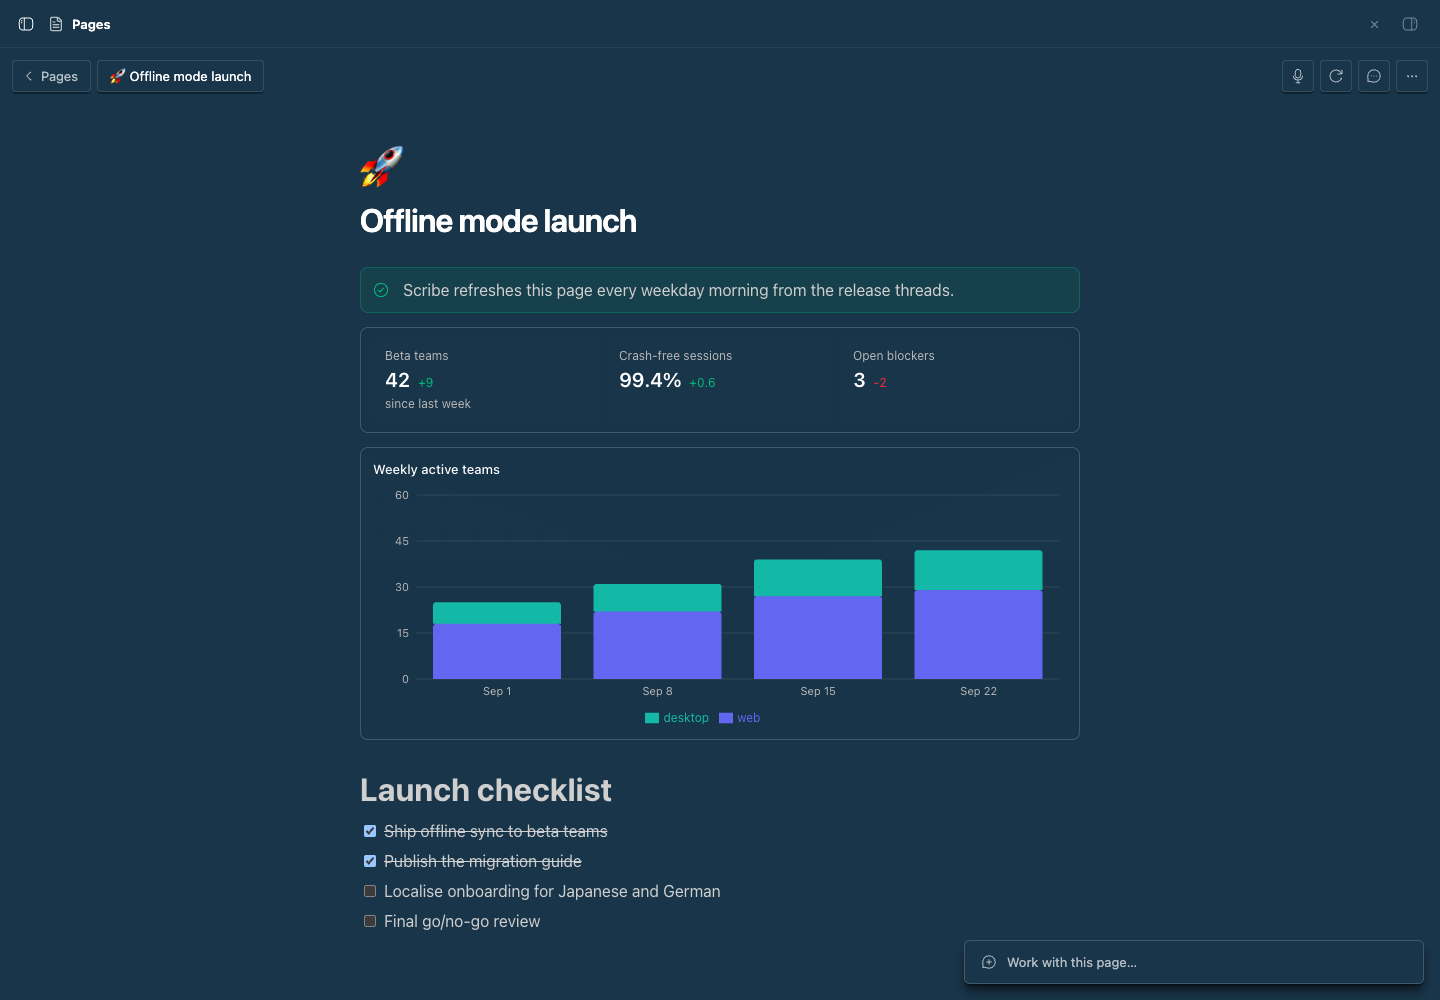
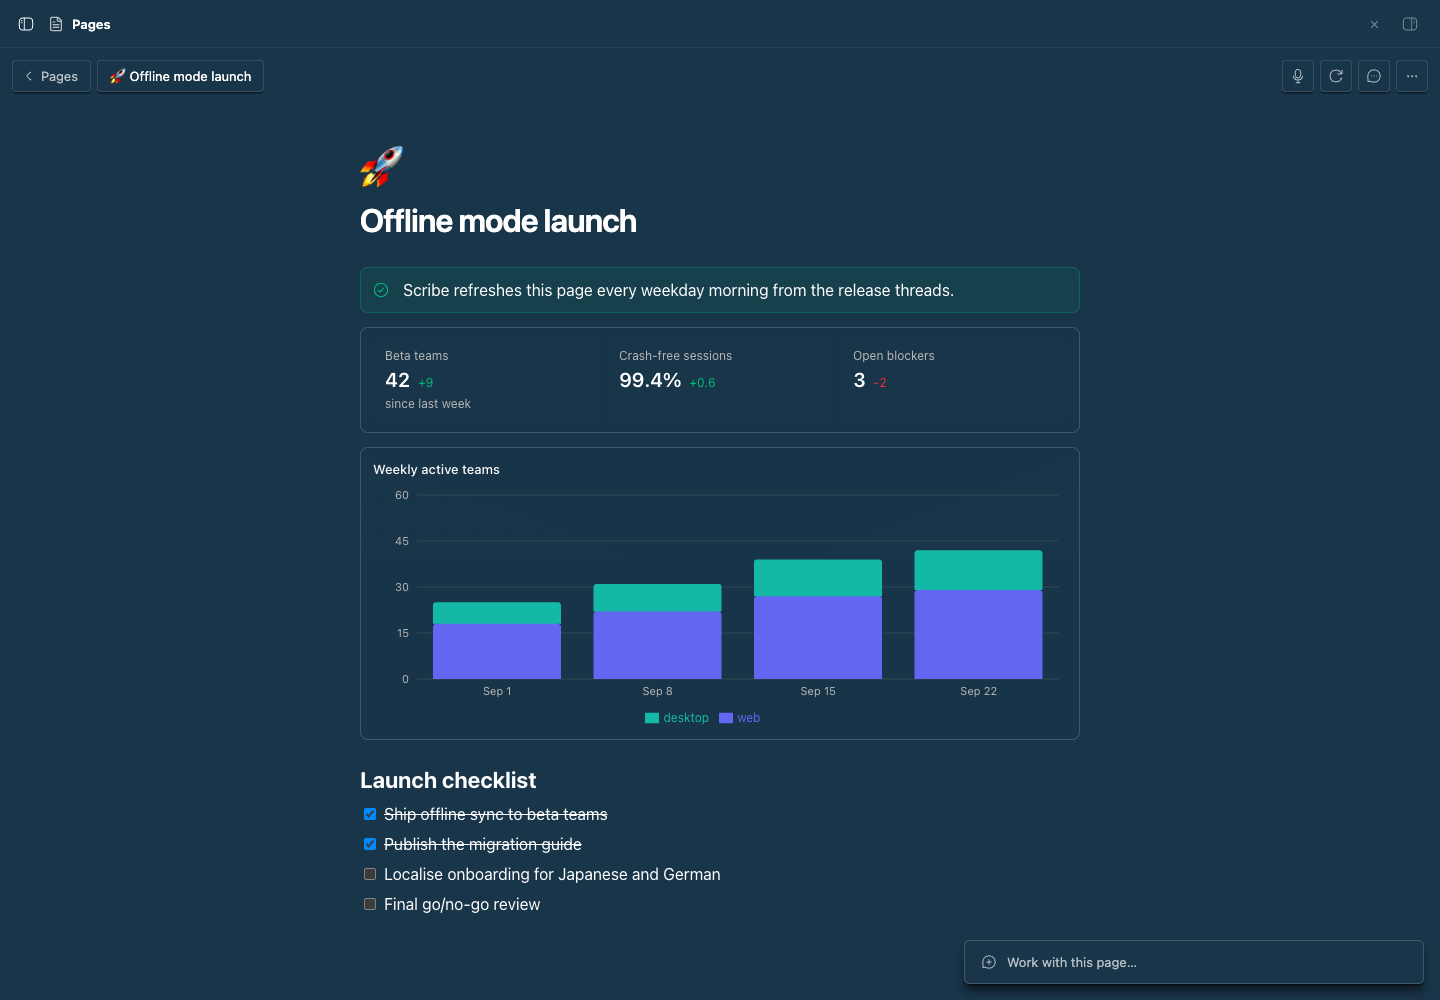
Polish the Pages editor to follow BB's theme
Map BlockNote's colours, font and radius onto BB's theme tokens so pages
follow whichever theme is active, and restyle headings, code, tables,
quotes, links, placeholders and comment threads to match. Markdown tables
keep their header row, and a new page starts with its title focused.

diff --git a/packages/bb-plugin-pages/styles.css b/packages/bb-plugin-pages/styles.css
@@ -1,9 +1,114 @@
-/* BlockNote sits inside the page column; the column owns padding and
-   background so the editor blends with the host theme. */
-.pages-editor .bn-container,
-.pages-editor.bn-container {
+/* BlockNote ships its own greys and font. Point them at BB's theme so pages
+   follow whichever theme is active. Comment composers are nested editors
+   with their own color scheme, hence the second selector. */
+.pages-editor.bn-root[data-color-scheme],
+.pages-editor .bn-root[data-color-scheme] {
+  --bn-font-family: var(--font-sans);
+  --bn-border-radius: var(--radius);
+  --bn-colors-editor-text: var(--foreground);
   --bn-colors-editor-background: transparent;
+  --bn-colors-menu-text: var(--popover-foreground);
+  --bn-colors-menu-background: var(--popover);
+  --bn-colors-tooltip-text: var(--popover-foreground);
+  --bn-colors-tooltip-background: var(--popover);
+  --bn-colors-hovered-text: var(--accent-foreground);
+  --bn-colors-hovered-background: var(--accent);
+  --bn-colors-selected-text: var(--accent-foreground);
+  --bn-colors-selected-background: var(--accent);
+  --bn-colors-disabled-text: var(--muted-foreground);
+  --bn-colors-disabled-background: var(--muted);
+  --bn-colors-border: var(--border);
+  --bn-colors-side-menu: var(--muted-foreground);
   background: transparent;
+}
+.pages-editor .bn-editor {
+  accent-color: var(--primary);
+}
+
+/* Headings step down from the 32px page title. */
+.pages-editor [data-content-type="heading"] {
+  --level: 1.75em;
+  padding-top: 20px;
+}
+.pages-editor [data-content-type="heading"][data-level="2"] {
+  --level: 1.4em;
+  padding-top: 16px;
+}
+.pages-editor [data-content-type="heading"][data-level="3"] {
+  --level: 1.2em;
+  padding-top: 12px;
+}
+.pages-editor .bn-block-content[data-content-type="heading"] {
+  font-weight: 600;
+}
+.pages-editor .bn-inline-content a {
+  color: var(--primary);
+  text-underline-offset: 2px;
+}
+.pages-editor [data-content-type="quote"] blockquote {
+  color: inherit;
+  border-left: 3px solid var(--border);
+}
+.pages-editor [data-content-type="divider"] hr {
+  border-top-color: var(--border);
+}
+.pages-editor .bn-block-group .bn-block-group .bn-block-outer::before {
+  border-left-color: var(--border) !important;
+}
+.pages-editor .bn-inline-content code {
+  font-family: var(--font-mono);
+  font-size: 0.875em;
+  padding: 0.1em 0.3em;
+  border-radius: 4px;
+  background: var(--muted);
+}
+.pages-editor .bn-block-content[data-content-type="codeBlock"] {
+  color: var(--foreground);
+  background: color-mix(in oklch, var(--foreground) 5%, var(--background));
+  border: 1px solid var(--border);
+  border-radius: 6px;
+}
+.pages-editor .bn-block-content[data-content-type="codeBlock"] > pre {
+  padding: 14px 16px;
+  font-family: var(--font-mono);
+  font-size: 13px;
+  line-height: 1.6;
+}
+.pages-editor .bn-block-content[data-content-type="codeBlock"] > pre code {
+  font-family: inherit;
+}
+.pages-editor .bn-block-content[data-content-type="codeBlock"] > div > select {
+  color: var(--muted-foreground);
+  top: 4px;
+  left: auto;
+  right: 10px;
+}
+.pages-editor .bn-block-content[data-content-type="codeBlock"] > div > select > option {
+  color: var(--popover-foreground);
+  background: var(--popover);
+}
+.pages-editor [data-content-type="table"] th,
+.pages-editor [data-content-type="table"] td {
+  border-color: var(--border);
+  padding: 6px 10px;
+}
+.pages-editor [data-content-type="table"] th {
+  background: color-mix(in oklch, var(--foreground) 5%, transparent);
+  font-weight: 600;
+}
+.pages-editor .ProseMirror .column-resize-handle {
+  background-color: var(--primary);
+}
+.pages-editor .bn-thread-mark:not([data-orphan="true"]) {
+  background: color-mix(in oklch, #facc15 22%, transparent);
+}
+.pages-editor .bn-thread-mark .bn-thread-mark-selected {
+  background: color-mix(in oklch, #facc15 38%, transparent);
+}
+/* Empty-block hints read like BB's input placeholders. */
+.pages-editor .bn-block-content:has(.ProseMirror-trailingBreak:only-child)::after {
+  font-style: normal;
+  color: var(--muted-foreground);
 }
 /* Only the page body: comment composers are nested BlockNote editors. */
 .pages-main > .bn-editor {
@@ -57,8 +162,8 @@
   width: 16px;
   height: 16px;
 }
-/* BlockNote's shadcn cards rely on arbitrary Tailwind values that the plugin
-   build does not emit, so give comment threads their spacing directly. */
+/* Comment threads: a compact card that matches BB's popovers rather than
+   BlockNote's roomier default. */
 .pages-editor .bn-thread {
   display: flex;
   flex-direction: column;
@@ -71,6 +176,26 @@
 }
 .pages-editor .bn-thread > * {
   padding-inline: 0;
+}
+/* The quoted text the thread is anchored to. */
+.pages-editor .bn-thread > :first-child:not(.bn-thread-comments) {
+  padding: 0;
+  font-size: 12px;
+  font-style: normal;
+  color: var(--muted-foreground);
+}
+.pages-editor .bn-thread-comments {
+  padding-block: 0;
+  gap: 14px;
+}
+.pages-editor .bn-thread-comments:last-child {
+  border-bottom: 0;
+}
+.pages-editor .bn-thread-comments:not(:last-child) {
+  padding-bottom: 12px;
+}
+.pages-editor .bn-comment-editor .bn-editor {
+  font-size: 14px;
 }
 .pages-comments .bn-thread {
   box-shadow: none;

diff --git a/packages/bb-plugin-pages/src/ui/PageView.tsx b/packages/bb-plugin-pages/src/ui/PageView.tsx
@@ -403,7 +403,7 @@ export function PageView({
           <div className="group/title px-[54px] max-md:px-4">
             {page.icon ? (
               <IconPicker page={page} rpc={rpc}>
-                <button type="button" aria-label="Change icon" className="mb-3 rounded-lg text-[44px] leading-none hover:bg-state-hover">
+                <button type="button" aria-label="Change icon" className="mb-3 rounded-md text-[44px] leading-none hover:bg-state-hover">
                   {page.icon}
                 </button>
               </IconPicker>
@@ -423,6 +423,8 @@ export function PageView({
               ) : null}
               <TitleField
                 value={title}
+                // A new page starts with its title, like a new document.
+                autoFocus={!page.title && !page.archived}
                 onFocus={() => (editingTitle.current = true)}
                 onBlur={() => (editingTitle.current = false)}
                 onChange={(event) => saveTitle(event.target.value)}

diff --git a/packages/bb-plugin-pages/src/ui/Collection.tsx b/packages/bb-plugin-pages/src/ui/Collection.tsx
@@ -261,7 +261,7 @@ export function Collection({
                   role="row"
                   tabIndex={0}
                   aria-label={page.title || "Untitled"}
-                  className="group/row grid cursor-pointer grid-cols-[minmax(0,1fr)_minmax(0,180px)_170px] items-center gap-4 rounded-lg px-2 py-2 hover:bg-state-hover max-md:grid-cols-[minmax(0,1fr)_auto] max-md:py-2.5"
+                  className="group/row grid cursor-pointer grid-cols-[minmax(0,1fr)_minmax(0,180px)_170px] items-center gap-4 rounded-md px-2 py-2 hover:bg-state-hover max-md:grid-cols-[minmax(0,1fr)_auto] max-md:py-2.5"
                   onClick={() => onOpen(page.id)}
                   onKeyDown={(event) => event.key === "Enter" && onOpen(page.id)}
                 >

diff --git a/packages/bb-plugin-pages/src/markdown.ts b/packages/bb-plugin-pages/src/markdown.ts
@@ -40,6 +40,7 @@ export type InlineContent = StyledText | LinkContent | MentionContent;
 
 export interface TableContent {
   type: "tableContent";
+  headerRows?: number;
   rows: { cells: (InlineContent[] | { type: "tableCell"; content: InlineContent[] })[] }[];
 }
 
@@ -182,6 +183,8 @@ function convertTable(table: Table): PageBlock {
     type: "table",
     content: {
       type: "tableContent",
+      // A Markdown table's first row is always its header.
+      headerRows: 1,
       rows: table.children.map((row) => ({
         cells: row.children.map((cell) => inline(cell.children)),
       })),
